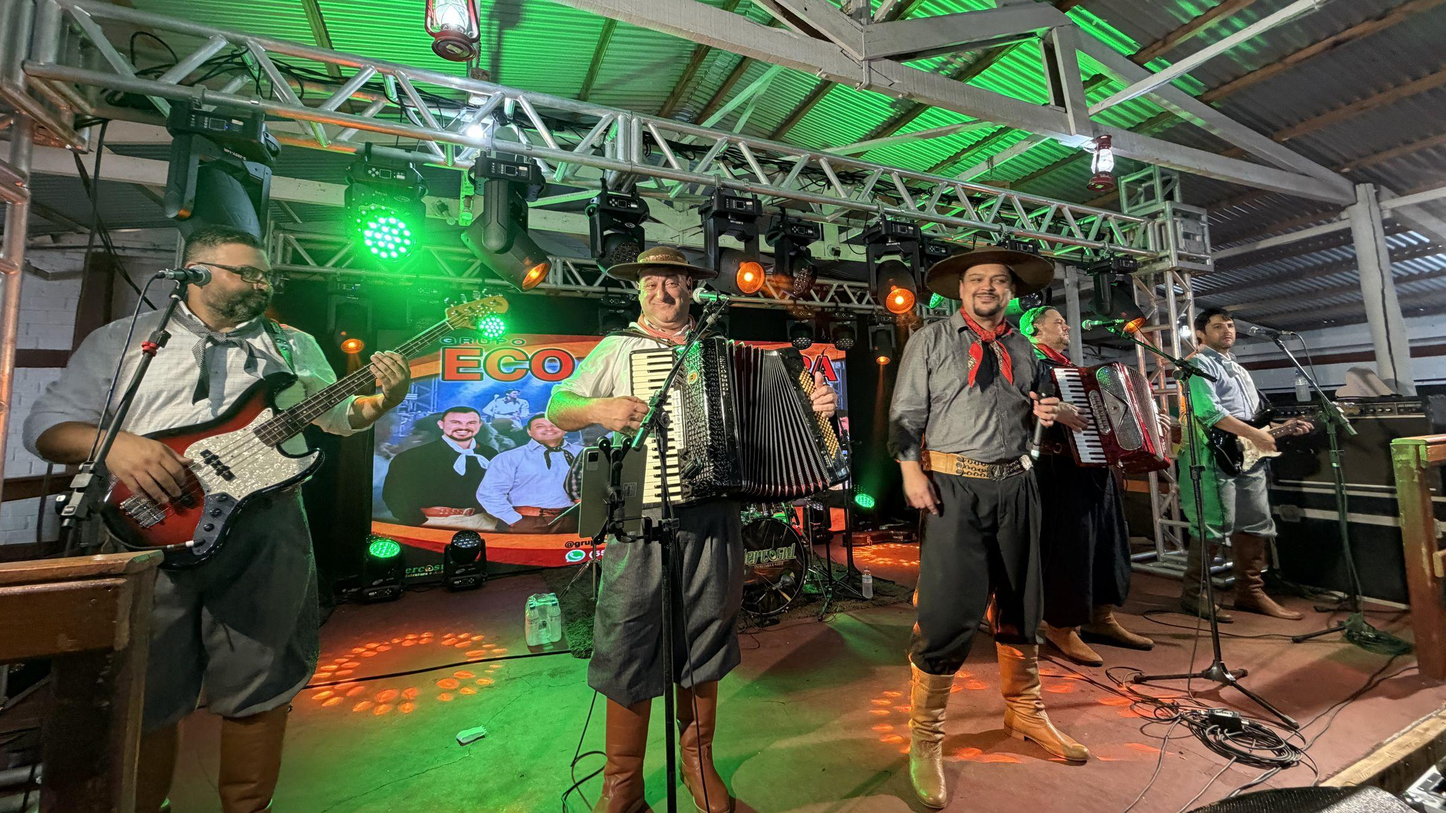
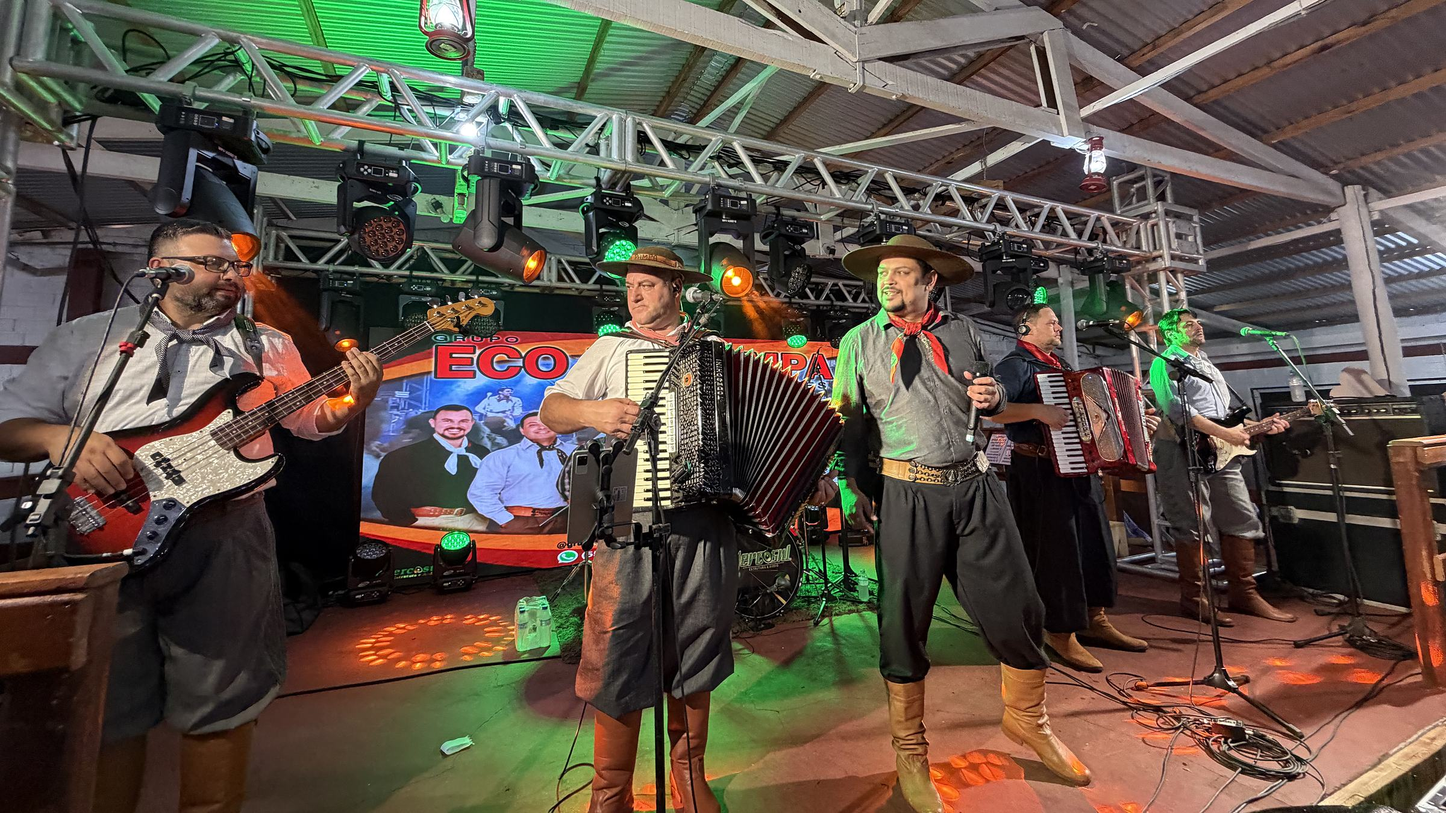
Tela de abrir com a foto mais nitida do grupo (9658 no lugar da 9659, que estava tremida)

diff --git a/index.html b/index.html
@@ -52,7 +52,7 @@ a{color:inherit}
 .ic{width:20px;height:20px;flex:0 0 auto}
 
 /* ===== CAPA (toque para abrir) =====
-   Foto com o grupo todo no palco (IMG_9659, pedido do Pedro em 15/11; o baterista nao aparece
+   Foto com o grupo todo no palco (IMG_9658, a mais nitida; a 9659 estava tremida. Pedido do Pedro em 15/11; o baterista nao aparece
    em nenhuma foto, fica escondido atras da bateria). No celular a foto deitada nao cabe como fundo
    sem cortar gente, entao ela vai inteira numa faixa acima do logo; no computador ela e o fundo. */
 .capa{display:none}
